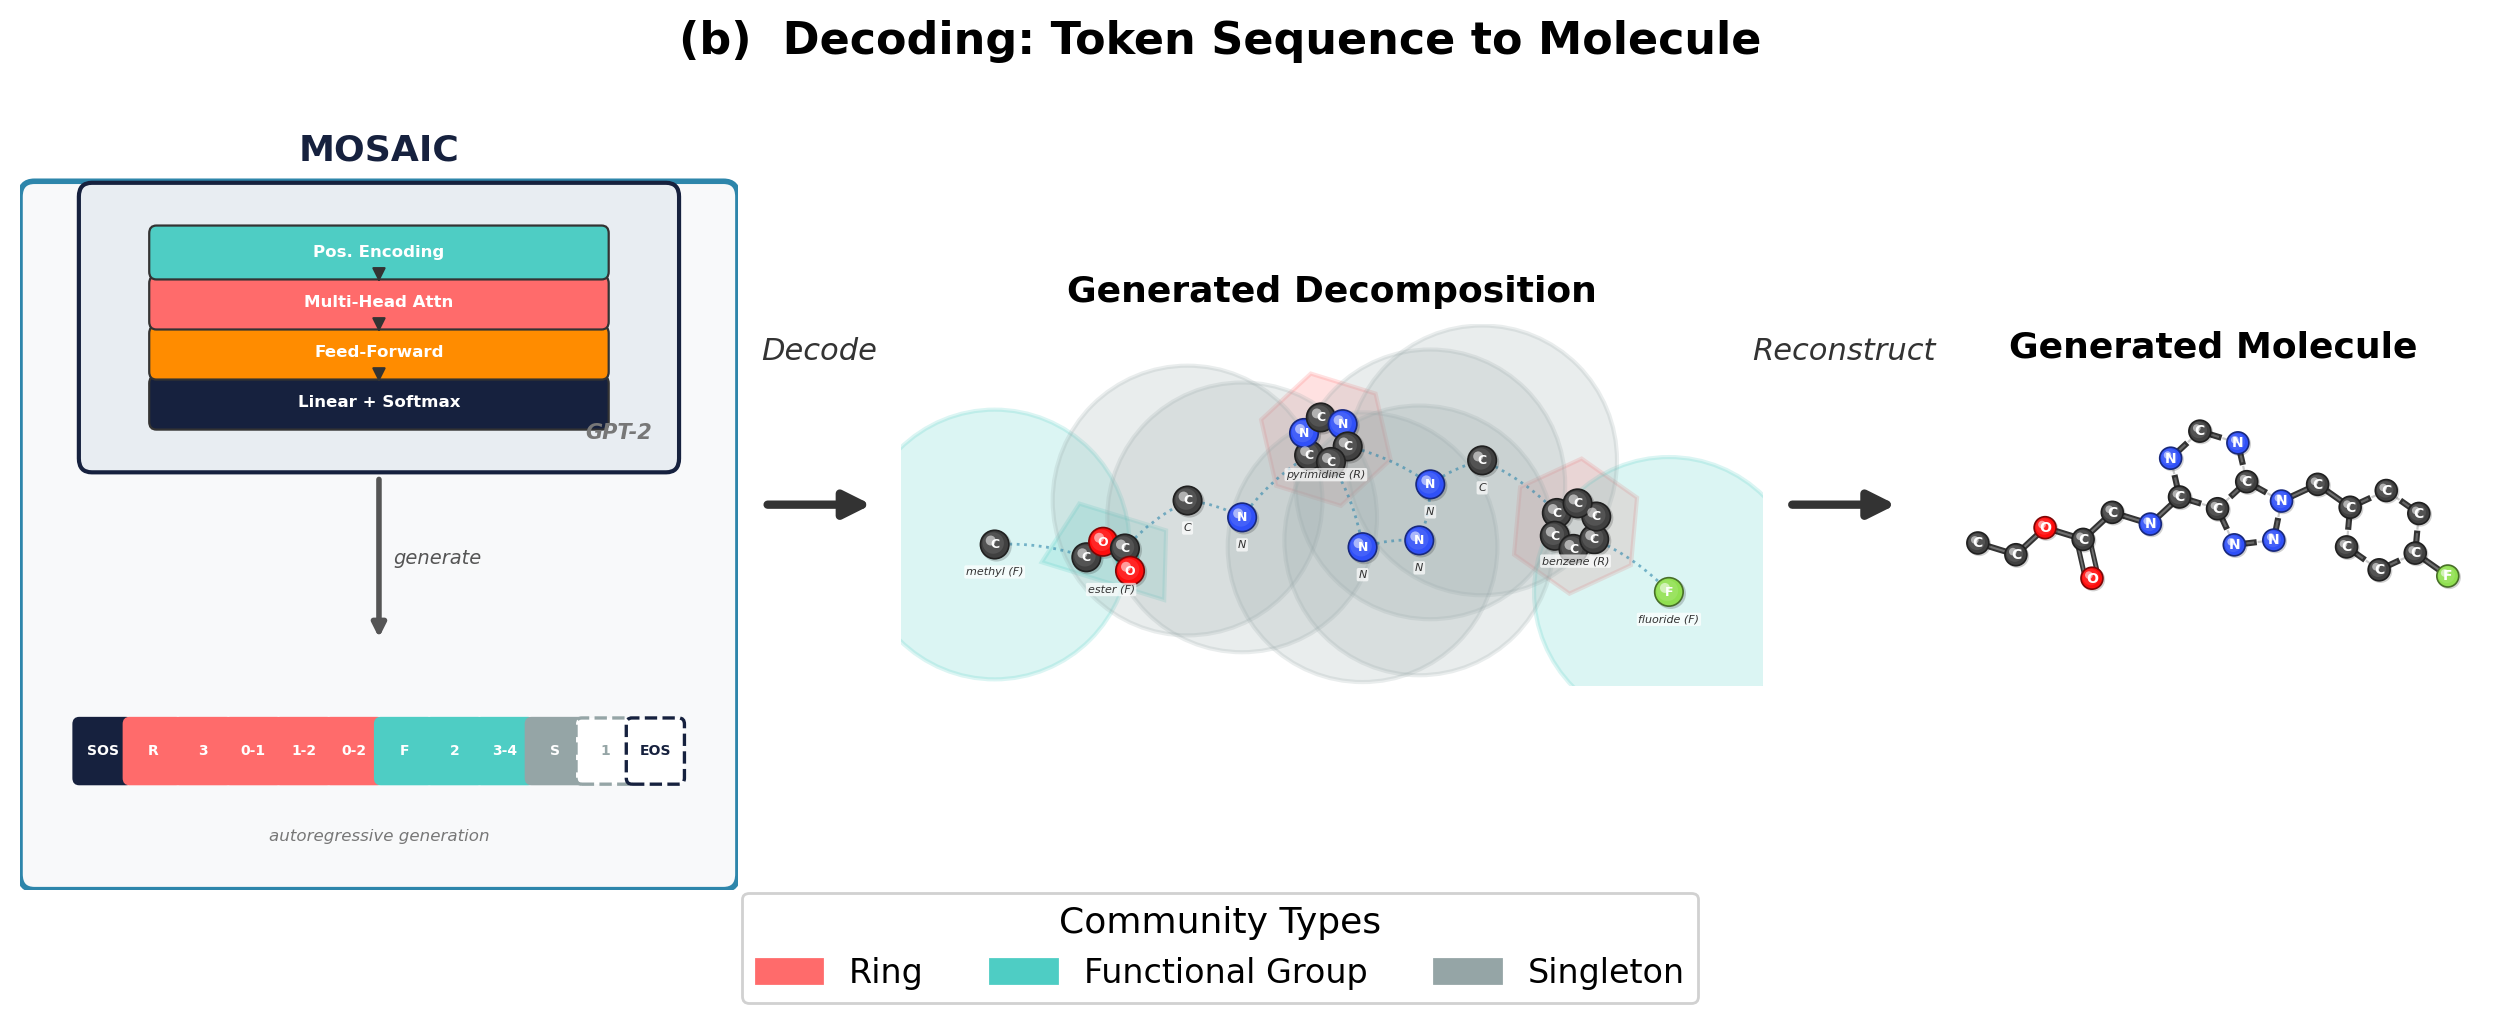
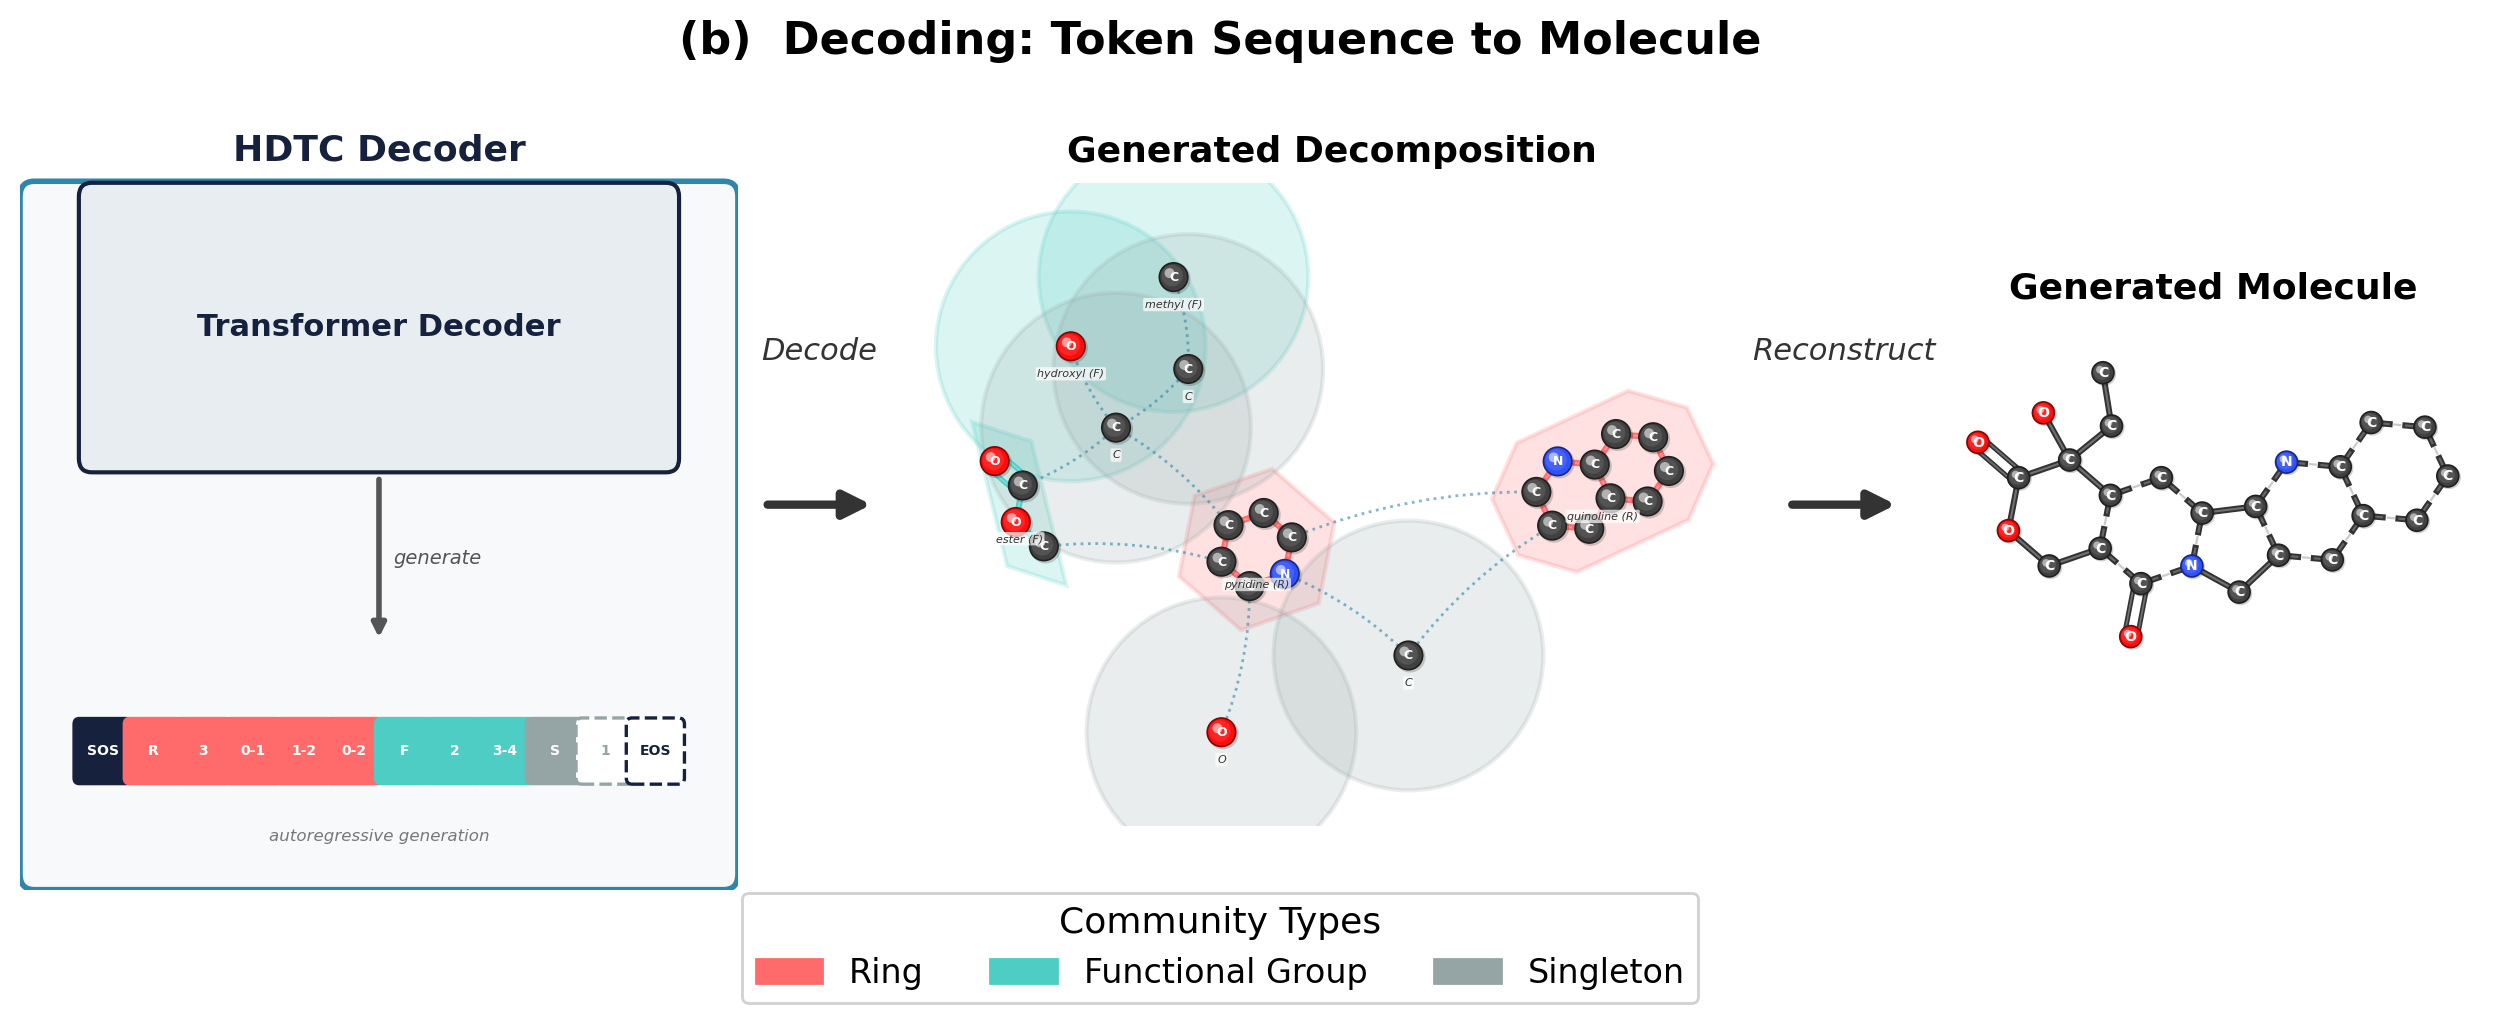
changed pipeline overview scripts

diff --git a/scripts/visualization/pipeline_overview.py b/scripts/visualization/pipeline_overview.py
@@ -922,7 +922,7 @@ def draw_hdtc_tokenization(ax: plt.Axes) -> None:
 
     # Title
     ax.text(
-        0.5, 0.96, "MOSAIC",
+        0.5, 0.96, "HDTC",
         ha="center", va="center",
         fontsize=13, fontweight="bold", color=dark,
         transform=ax.transAxes, zorder=5,
@@ -1043,7 +1043,7 @@ def draw_hdtc_tokenization(ax: plt.Axes) -> None:
             color="#555555", transform=ax.transAxes, zorder=5)
 
     # =====================================================================
-    # LOWER: Transformer block  (y ~ 0.06 .. 0.40)
+    # LOWER: Transformer Decoder block  (y ~ 0.06 .. 0.40)
     # =====================================================================
     tf_x, tf_y = 0.10, 0.06
     tf_w, tf_h = 0.80, 0.34
@@ -1055,46 +1055,10 @@ def draw_hdtc_tokenization(ax: plt.Axes) -> None:
     )
     ax.add_patch(tf_box)
 
-    # Stacked sub-blocks inside the transformer
-    bw = 0.62
-    bh = 0.050
-    bcx = 0.50
-    gap = 0.015
-    blocks = [
-        ("Linear + Softmax",  dark),
-        ("Feed-Forward",      "#FF8C00"),
-        ("Multi-Head Attn",   "#FF6B6B"),
-        ("Pos. Encoding",     "#4ECDC4"),
-    ]
-    n = len(blocks)
-    total = n * bh + (n - 1) * gap
-    by_start = tf_y + (tf_h - total) / 2
-
-    for i, (label, color) in enumerate(blocks):
-        by = by_start + i * (bh + gap)
-        sub = mpatches.FancyBboxPatch(
-            (bcx - bw / 2, by), bw, bh,
-            boxstyle="round,pad=0.010",
-            facecolor=color, edgecolor="#333333",
-            linewidth=0.8, transform=ax.transAxes, zorder=3,
-        )
-        ax.add_patch(sub)
-        ax.text(bcx, by + bh / 2, label,
-                ha="center", va="center", fontsize=6, fontweight="bold",
-                color="white", transform=ax.transAxes, zorder=4)
-        if i < n - 1:
-            ax.annotate(
-                "", xy=(bcx, by + bh + 0.002),
-                xytext=(bcx, by + bh + gap - 0.002),
-                arrowprops=dict(arrowstyle="-|>", color="#333333", lw=0.8),
-                transform=ax.transAxes, zorder=4,
-            )
-
-    # "GPT-2" label on the side
-    ax.text(tf_x + tf_w - 0.02, tf_y + 0.02, "GPT-2",
-            ha="right", va="bottom", fontsize=7.5, fontweight="bold",
-            fontstyle="italic", color="#777777",
-            transform=ax.transAxes, zorder=5)
+    # Single centered label
+    ax.text(0.50, tf_y + tf_h / 2, "Transformer Decoder",
+            ha="center", va="center", fontsize=11, fontweight="bold",
+            color=dark, transform=ax.transAxes, zorder=4)
 
     ax.set_xlim(0, 1)
     ax.set_ylim(0, 1)
@@ -1202,7 +1166,7 @@ def draw_mosaic_encoding(ax: plt.Axes) -> None:
     )
     ax.add_patch(outer)
     ax.text(
-        0.5, 0.96, "MOSAIC",
+        0.5, 0.96, "HDTC Encoder",
         ha="center", va="center",
         fontsize=13, fontweight="bold", color=dark,
         transform=ax.transAxes, zorder=5,
@@ -1365,14 +1329,14 @@ def draw_mosaic_decoding(ax: plt.Axes) -> None:
     )
     ax.add_patch(outer)
     ax.text(
-        0.5, 0.96, "MOSAIC",
+        0.5, 0.96, "HDTC Decoder",
         ha="center", va="center",
         fontsize=13, fontweight="bold", color=dark,
         transform=ax.transAxes, zorder=5,
     )
 
     # ================================================================
-    # UPPER: Transformer block  (y ~ 0.58 .. 0.92)
+    # UPPER: Transformer Decoder block  (y ~ 0.58 .. 0.92)
     # ================================================================
     tf_x, tf_y = 0.10, 0.56
     tf_w, tf_h = 0.80, 0.34
@@ -1384,45 +1348,10 @@ def draw_mosaic_decoding(ax: plt.Axes) -> None:
     )
     ax.add_patch(tf_box)
 
-    # Stacked sub-blocks
-    bw = 0.62
-    bh = 0.050
-    bcx = 0.50
-    gap = 0.015
-    blocks = [
-        ("Linear + Softmax",  dark),
-        ("Feed-Forward",      "#FF8C00"),
-        ("Multi-Head Attn",   "#FF6B6B"),
-        ("Pos. Encoding",     "#4ECDC4"),
-    ]
-    n = len(blocks)
-    total = n * bh + (n - 1) * gap
-    by_start = tf_y + (tf_h - total) / 2
-
-    for i, (label, color) in enumerate(blocks):
-        by = by_start + i * (bh + gap)
-        sub = mpatches.FancyBboxPatch(
-            (bcx - bw / 2, by), bw, bh,
-            boxstyle="round,pad=0.010",
-            facecolor=color, edgecolor="#333333",
-            linewidth=0.8, transform=ax.transAxes, zorder=3,
-        )
-        ax.add_patch(sub)
-        ax.text(bcx, by + bh / 2, label,
-                ha="center", va="center", fontsize=6, fontweight="bold",
-                color="white", transform=ax.transAxes, zorder=4)
-        if i < n - 1:
-            ax.annotate(
-                "", xy=(bcx, by + bh + 0.002),
-                xytext=(bcx, by + bh + gap - 0.002),
-                arrowprops=dict(arrowstyle="-|>", color="#333333", lw=0.8),
-                transform=ax.transAxes, zorder=4,
-            )
-
-    ax.text(tf_x + tf_w - 0.02, tf_y + 0.02, "GPT-2",
-            ha="right", va="bottom", fontsize=7.5, fontweight="bold",
-            fontstyle="italic", color="#777777",
-            transform=ax.transAxes, zorder=5)
+    # Single centered label
+    ax.text(0.50, tf_y + tf_h / 2, "Transformer Decoder",
+            ha="center", va="center", fontsize=11, fontweight="bold",
+            color=dark, transform=ax.transAxes, zorder=4)
 
     # ================================================================
     # ARROW: transformer -> token sequence ("generate")
